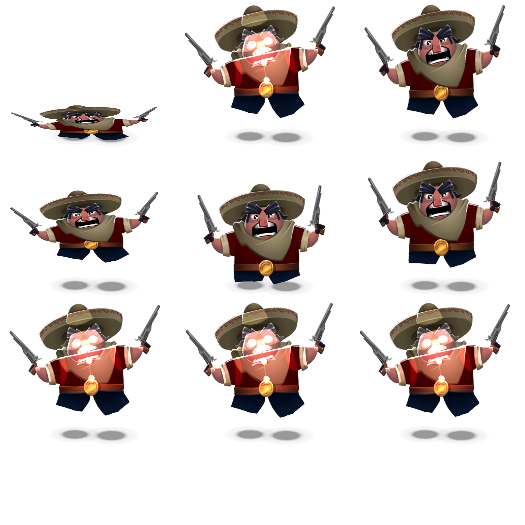
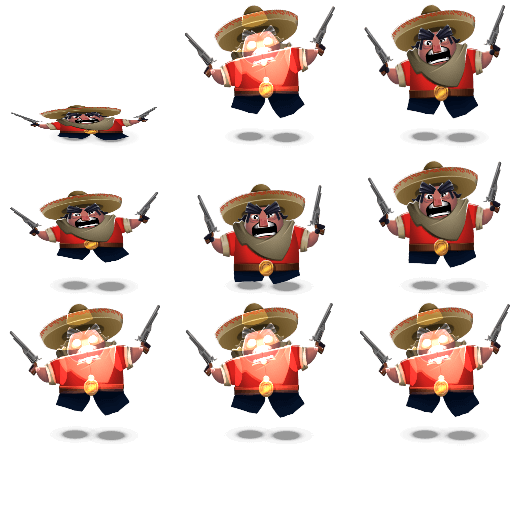
Replaced all Enemy (Bandit A and B) + Bow + normal Arrow art for compressed & newly designed art

diff --git a/core/src/com/mygdx/game/entities/ArrowProjectile.java b/core/src/com/mygdx/game/entities/ArrowProjectile.java
@@ -143,7 +143,7 @@ public class ArrowProjectile extends BaseProjectile implements IEventReceiver
 					{
 						this.getComponent(CollisionComponent.class).stopVelocity();
 						cc.setActiveState(false);
-						this.getComponent(RenderComponent.class).setCurrentFrameInfo(this.getComponent(RenderComponent.class).getRenderInfo().getFramesLength() - 2);
+						this.getComponent(RenderComponent.class).setCurrentFrameInfo(this.getComponent(RenderComponent.class).getRenderInfo().getFramesLength() - 1);
 						this.getComponent(RenderComponent.class).setSortingLayer(1);
 						getComponent(RenderComponent.class).setPivot(new Vector2(0.5f, 0.7f), true);
 						MyGdxGame.getAudioResources().getSound(GameAudioResources.SOUND_ARROW_HIT_NOTHING).play(0.4f * (_drawPower / _FULL_DAMAGE_DRAW_POWER_POTENTIAL), (float)Math.random() + 0.8f, 0f);
